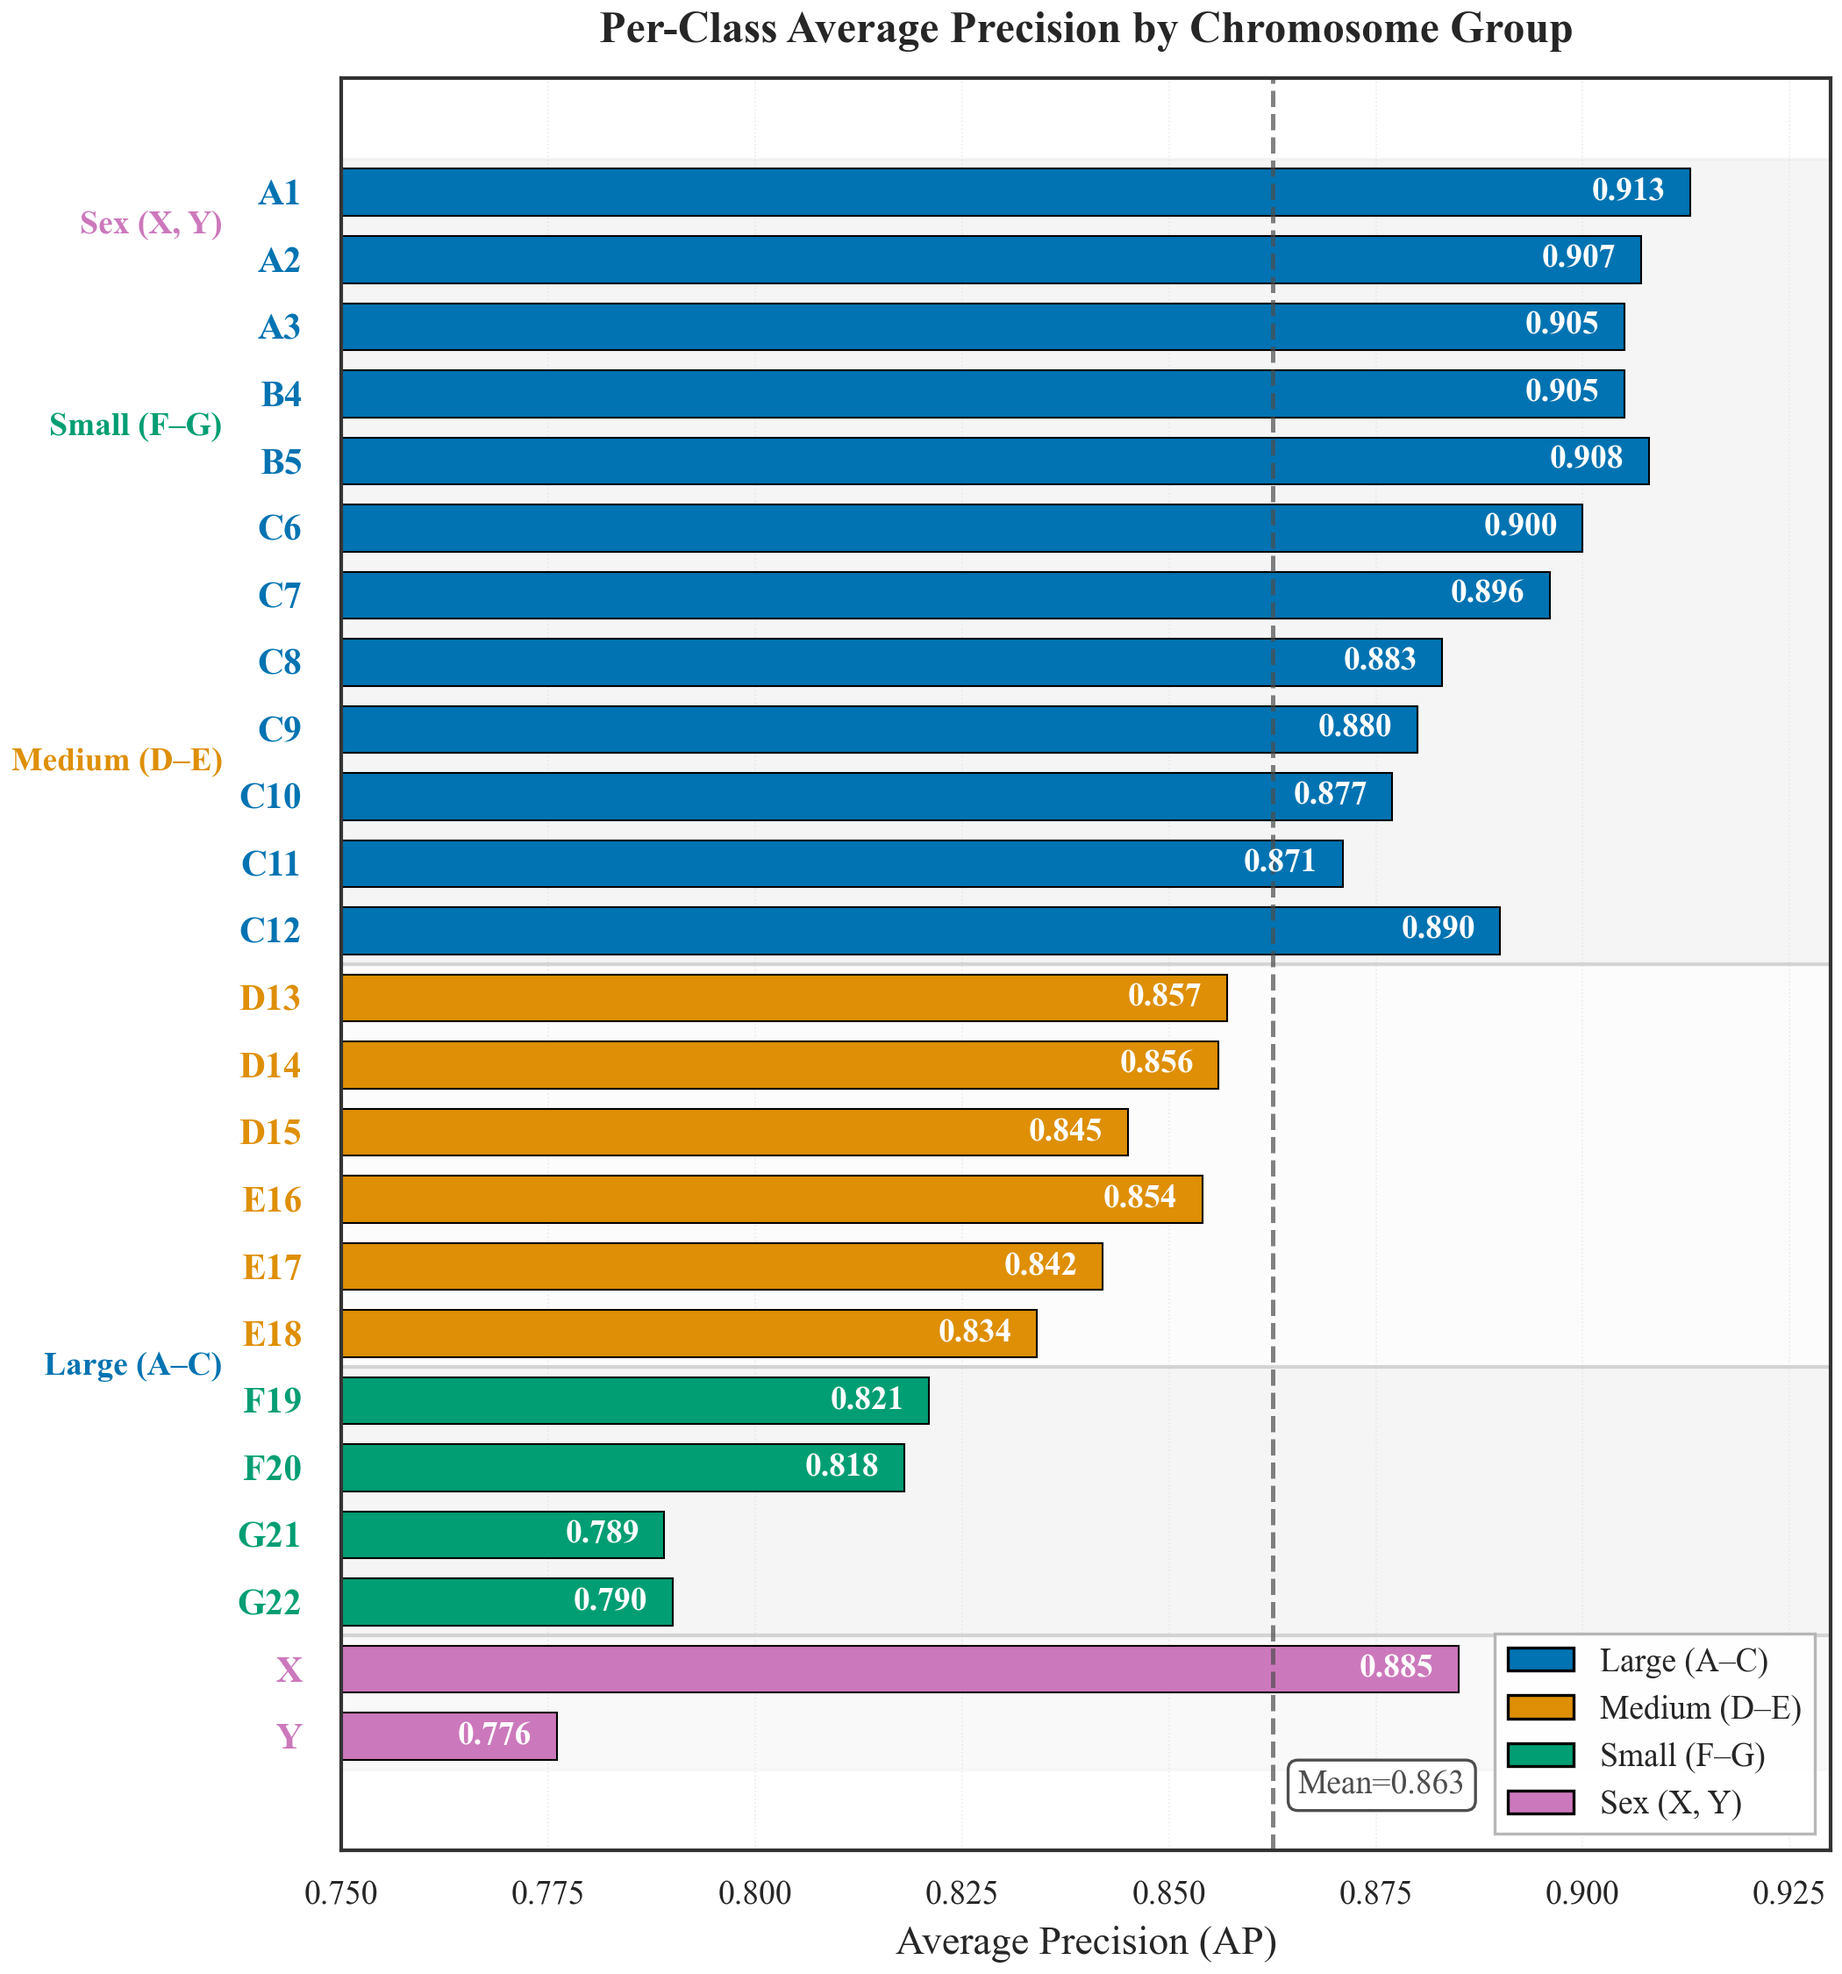
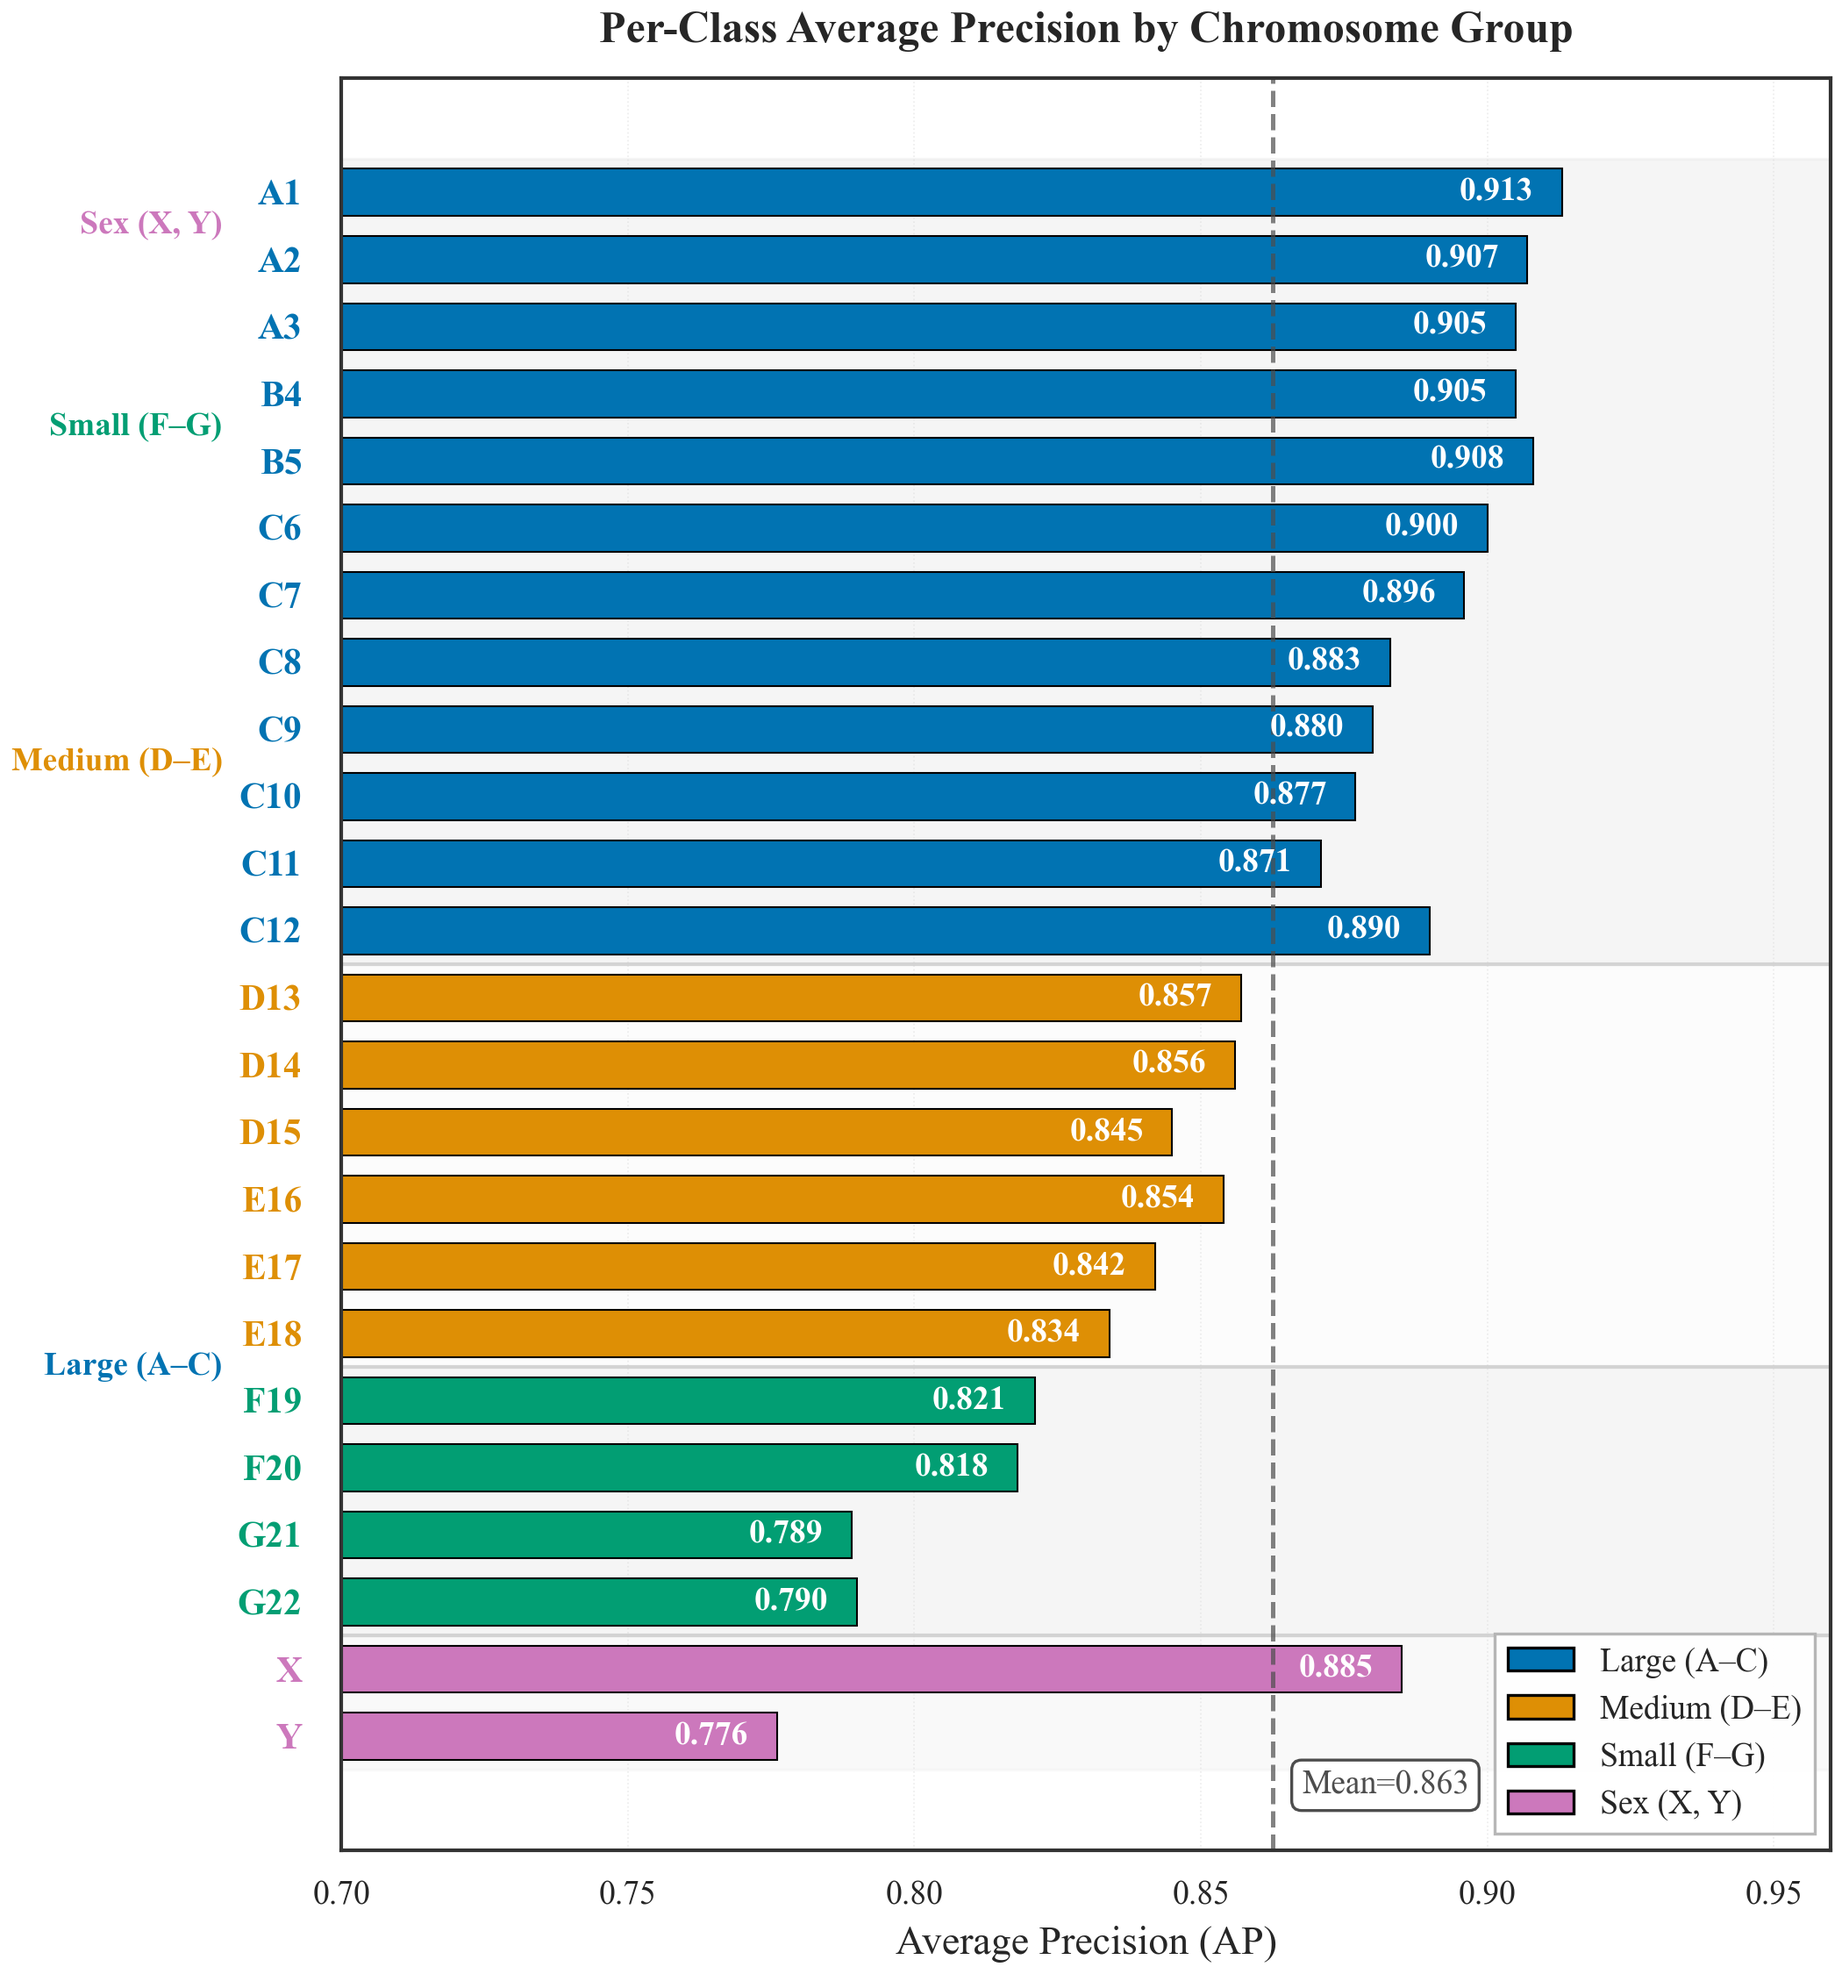
style(figures): increase x-axis tick interval for per_class_ap
Changes:
- Widen x-axis range from [0.75, 0.93] to [0.70, 0.96]
- Set tick interval to 0.05 (coarser scale)
- Adjust label positions for new axis range
- Makes class differences visually more compact

diff --git a/docs/paper/latex/figures/per_class_ap.py b/docs/paper/latex/figures/per_class_ap.py
@@ -80,14 +80,15 @@ def main() -> None:
         prev_group = g
     
     for i, (ap, cls) in enumerate(zip(aps, classes)):
-        ax.text(ap - 0.003, y_pos[i], f'{ap:.3f}', 
+        ax.text(ap - 0.005, y_pos[i], f'{ap:.3f}', 
                 va='center', ha='right', fontsize=9, 
                 color='white', fontweight='bold')
     
     ax.set_yticks(y_pos)
     ax.set_yticklabels(classes, fontsize=10)
     ax.set_xlabel('Average Precision (AP)', fontsize=11)
-    ax.set_xlim(0.75, 0.93)
+    ax.set_xlim(0.70, 0.96)
+    ax.set_xticks(np.arange(0.70, 0.97, 0.05))
     ax.invert_yaxis()
     ax.set_axisbelow(True)
     ax.grid(axis='x', ls=':', lw=0.4, alpha=0.5)
@@ -113,7 +114,8 @@ def main() -> None:
     
     overall_mean = df["ap"].mean()
     ax.axvline(overall_mean, color=C_OVERALL, lw=1.2, ls='--', alpha=0.7, zorder=2)
-    ax.text(overall_mean + 0.003, n - 0.5, f'Mean={overall_mean:.3f}',
+    mean_label_x = min(overall_mean + 0.005, 0.95)
+    ax.text(mean_label_x, n - 0.5, f'Mean={overall_mean:.3f}',
             fontsize=9, color=C_OVERALL, ha='left', va='top',
             bbox=dict(boxstyle='round,pad=0.3', fc='white', ec=C_OVERALL, lw=0.8))
     
